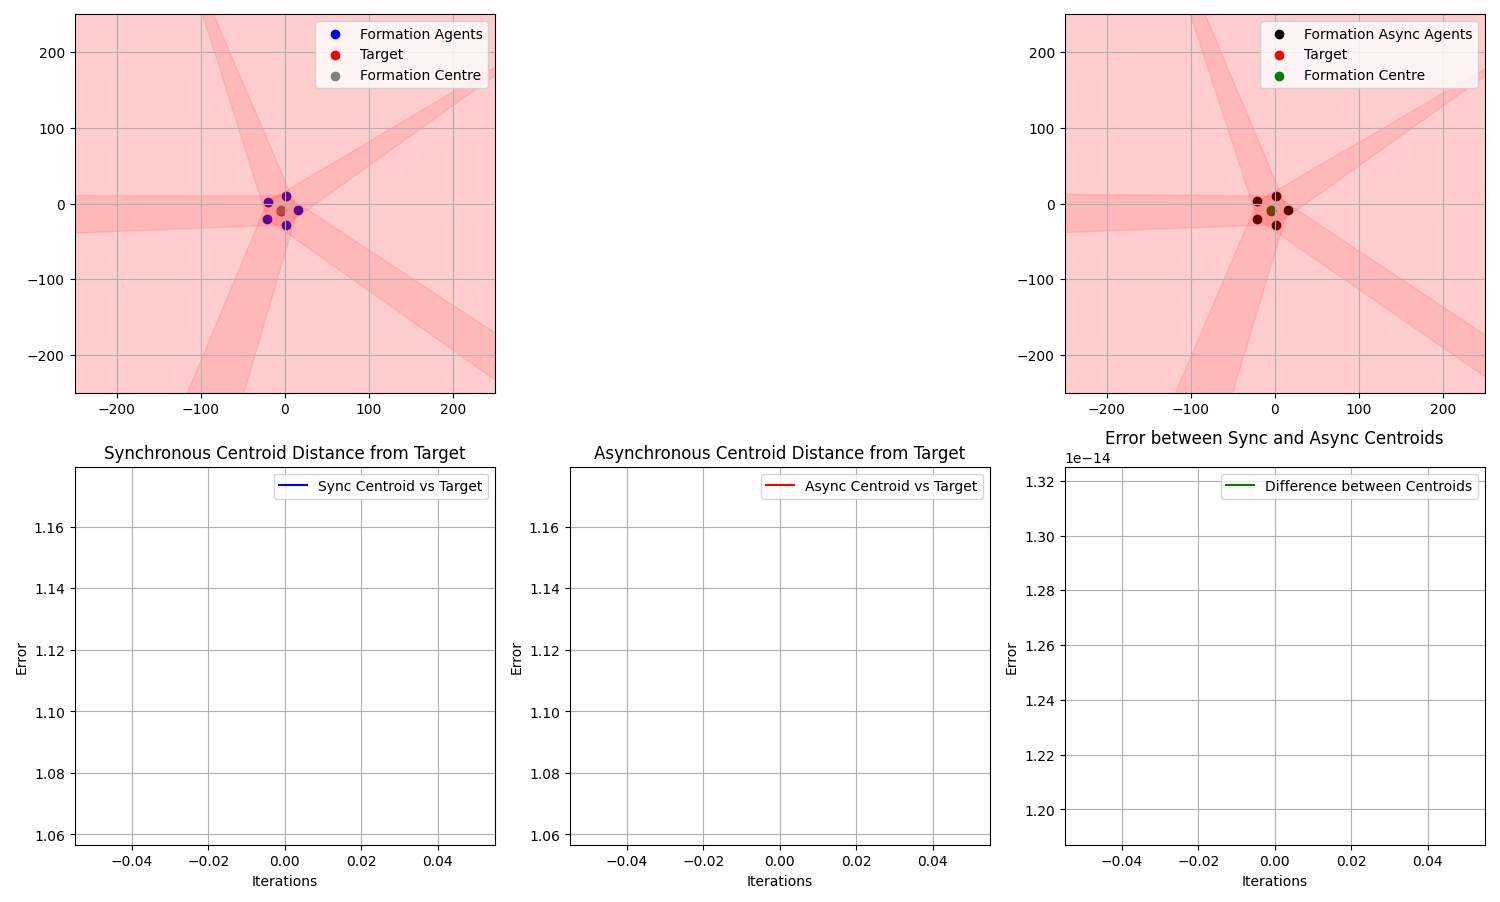
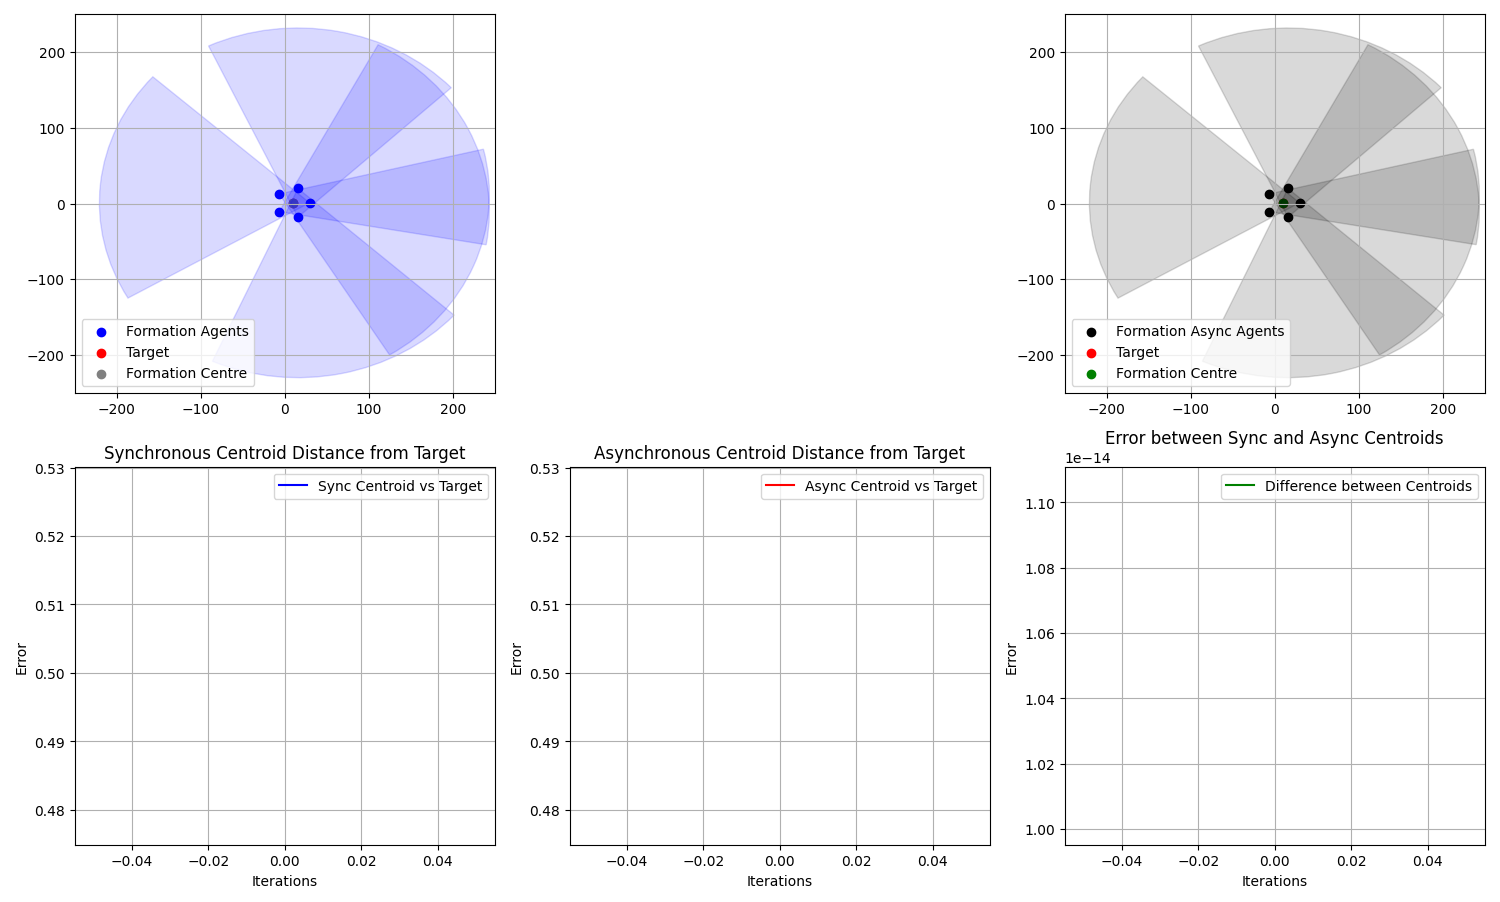
working FoV_V2

diff --git a/consensustest.py b/consensustest.py
@@ -176,7 +176,7 @@ class ConsensusAgent(DynamicAgent):
 def make_agents(n, list, offsets, velocity, fov_angle=120, fov_range=100):
     agents = []
     for ii in range(n):
-        agents.append(ConsensusAgent(n,ii, list[ii],[0,0], False, offsets[ii], velocity, fov_angle, fov_range))
+        agents.append(ConsensusAgent(n, ii, list[ii], [0,0], False, offsets[ii], velocity, fov_angle, fov_range))
     return agents
 
 def print_max_id(agents):
@@ -199,10 +199,12 @@ if __name__ == "__main__":
         dx = radius * math.cos(angle)
         dy = radius * math.sin(angle)
         offsets.append((dx, dy))
-    
+    # FoV control
     velocity = 0.1  # Velocity factor to control the speed of convergence
-    fov_angle = 120  # degrees
-    fov_range = 100  # units
+    fov_angle = 72  # degrees, set your desired FoV angle here
+    fov_range = 250  # units, set your desired FoV range here
+
+
     agents = make_agents(n, l, offsets, velocity, fov_angle, fov_range)
     agents[0].setflagcount(6)
     agents[1].setflagcount(6)
